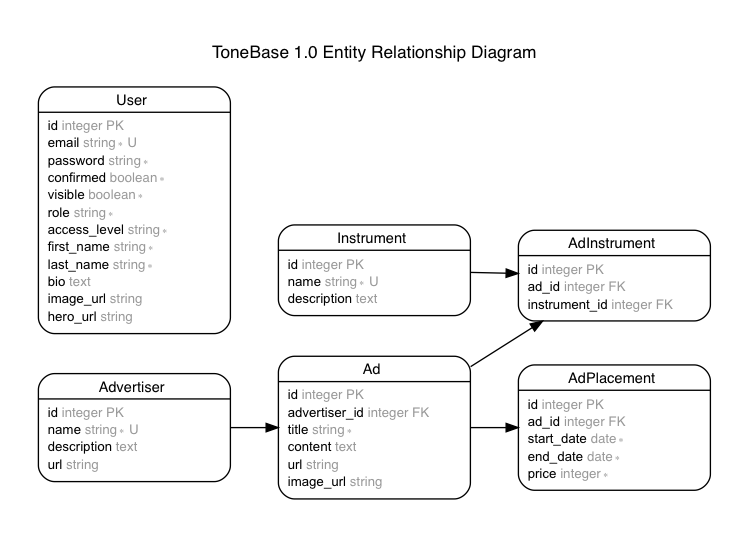
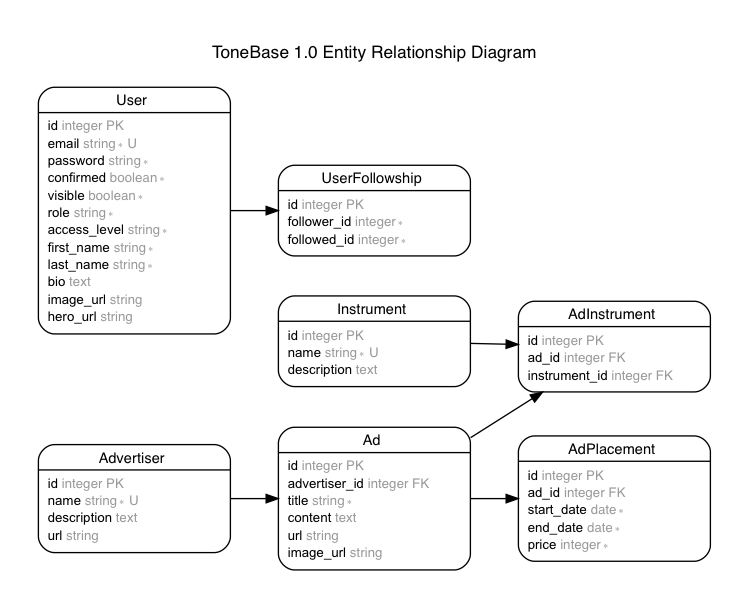
Re-configure bi-directional self-relationship

diff --git a/db/schema.rb b/db/schema.rb
@@ -10,7 +10,7 @@
 #
 # It's strongly recommended that you check this file into your version control system.
 
-ActiveRecord::Schema.define(version: 20170603143925) do
+ActiveRecord::Schema.define(version: 20170603192120) do
 
   # These are extensions that must be enabled in order to support this database
   enable_extension "plpgsql"
@@ -62,12 +62,13 @@ ActiveRecord::Schema.define(version: 20170603143925) do
     t.index ["name"], name: "index_instruments_on_name", unique: true, using: :btree
   end
 
-  create_table "user_follows", force: :cascade do |t|
+  create_table "user_followships", force: :cascade do |t|
     t.integer  "user_id"
-    t.integer  "follower_id"
-    t.datetime "created_at",  null: false
-    t.datetime "updated_at",  null: false
-    t.index ["user_id"], name: "index_user_follows_on_user_id", using: :btree
+    t.integer  "followed_user_id"
+    t.datetime "created_at",       null: false
+    t.datetime "updated_at",       null: false
+    t.index ["followed_user_id"], name: "index_user_followships_on_followed_user_id", using: :btree
+    t.index ["user_id"], name: "index_user_followships_on_user_id", using: :btree
   end
 
   create_table "users", force: :cascade do |t|
@@ -95,6 +96,6 @@ ActiveRecord::Schema.define(version: 20170603143925) do
   add_foreign_key "ad_instruments", "instruments"
   add_foreign_key "ad_placements", "ads"
   add_foreign_key "ads", "advertisers"
-  add_foreign_key "user_follows", "users"
-  add_foreign_key "user_follows", "users", column: "follower_id"
+  add_foreign_key "user_followships", "users"
+  add_foreign_key "user_followships", "users", column: "followed_user_id"
 end

diff --git a/spec/models/user_spec.rb b/spec/models/user_spec.rb
@@ -1,6 +1,30 @@
 require 'rails_helper'
 
 RSpec.describe User, type: :model do
+  describe "associations" do
+    it { should have_many(:user_followships) }
+    it { should have_many(:follows).through(:user_followships) }
+
+    it { should have_many(:inverse_user_followships) }
+    it { should have_many(:followers).through(:inverse_user_followships) }
+
+    describe "self-referential user followships" do
+      let(:user){ create(:user) }
+      let(:artist){ create(:artist) }
+      let!(:user_followhip) { create(:user_followship, user: user, followed_user: artist) }
+
+      it "should associate user with follows" do
+        expect(user.follows.first).to eql(artist)
+        expect(artist.follows.any?).to eql(false)
+      end
+
+      it "should associate followed user with followers" do
+        expect(artist.followers.first).to eql(user)
+        expect(user.followers.any?).to eql(false)
+      end
+    end
+  end
+
   describe "validations" do
     it { should validate_presence_of(:email) }
     it { should validate_presence_of(:password) }
@@ -16,7 +40,7 @@ RSpec.describe User, type: :model do
     it { should validate_inclusion_of(:role).in_array(["User", "Artist", "Admin"]) }
     it { should validate_inclusion_of(:access_level).in_array(["Full", "Limited"]) }
 
-    context "when requiring another model instance" do
+    describe "for uniqueness" do
       subject { build(:user) }
       it { should validate_uniqueness_of(:email) }
     end

diff --git a/spec/controllers/api/v1/user_followships_controller_spec.rb b/spec/controllers/api/v1/user_followships_controller_spec.rb
@@ -1,0 +1,26 @@
+require 'rails_helper'
+require_relative '../../../support/api/v1/create'
+require_relative '../../../support/api/v1/destroy'
+
+RSpec.describe Api::V1::UserFollowshipsController, type: :controller do
+  describe "POST #create" do
+    it_behaves_like "a create endpoint", UserFollowship  do
+      let(:user){ create(:user) }
+      let(:followed_user){ create(:followed_user) }
+      let(:resource_params){
+        {
+          user_id: user.id,
+          followed_user_id: followed_user.id,
+        }
+      }
+    end
+
+    it_behaves_like "a create endpoint which validates presence", UserFollowship, [:user, :followed_user] do
+      let(:resource_params){ {user_id: "", followed_user_id: ""} }
+    end
+  end
+
+  describe "DELETE #destroy" do
+    it_behaves_like "a destroy endpoint", UserFollowship
+  end
+end

diff --git a/spec/factories/users.rb b/spec/factories/users.rb
@@ -1,5 +1,6 @@
 FactoryGirl.define do
-  factory :user, aliases: [:follower] do
+  #factory :user, aliases: [:follower] do
+  factory :user do
     sequence(:email){|n| "avg.joe.#{n}@gmail.com)" }
     password "abc123"
     confirmed false
@@ -40,7 +41,7 @@ FactoryGirl.define do
       access_level "Full"
     end
 
-    factory :artist do
+    factory :artist, aliases: [:followed_user] do
       sequence(:email){|n| "music.pro.#{n}@gmail.com)" } # optional to put this attribute here, but it provides further clarity and differentiation
       first_name "Talenti" # optional to put this attribute here, but it provides further clarity and differentiation
       last_name "Pro" # optional to put this attribute here, but it provides further clarity and differentiation

diff --git a/app/models/user.rb b/app/models/user.rb
@@ -1,4 +1,10 @@
 class User < ApplicationRecord
+  has_many :user_followships
+  has_many :follows, :through => :user_followships, :source => :followed_user
+
+  has_many :inverse_user_followships, :class_name => UserFollowship, :foreign_key => "followed_user_id"
+  has_many :followers, :through => :inverse_user_followships, :source => :user
+
   ROLES = ["User", "Artist", "Admin"]
 
   validates :email, {presence: true, uniqueness: true}
@@ -21,4 +27,15 @@ class User < ApplicationRecord
   def self.admin
     where(:role => "Admin")
   end
+
+  def username
+    "#TODO"
+  end
+
+  #def follows
+  #  joins("")
+  #end
+
+  #def followers
+  #end
 end

diff --git a/spec/views/api/v1/users/index_spec.rb b/spec/views/api/v1/users/index_spec.rb
@@ -11,7 +11,12 @@ describe "api/v1/users/index.json.jbuilder" do
   it "displays users" do
     expect(parsed_view.count).to eql(2)
     parsed_view.each do |user|
-      expect(keys_of(user)).to match_array([:id, :email, :password, :confirmed, :visible, :role, :access_level, :first_name, :last_name, :bio, :image_url, :hero_url, :created_at, :updated_at])
+      expect(keys_of(user)).to match_array([
+        :id, :email, :password, :confirmed, :visible, :role, :access_level,
+        :first_name, :last_name, :bio, :image_url, :hero_url,
+        :followers,
+        :created_at, :updated_at
+      ])
     end
   end
 end

diff --git a/app/controllers/api/v1/user_followships_controller.rb b/app/controllers/api/v1/user_followships_controller.rb
@@ -1,0 +1,24 @@
+class Api::V1::UserFollowshipsController < Api::V1::ApiController
+  before_action :set_resource, only: [:destroy]
+
+  # POST /api/v1/user_followships
+  def create
+    user_followship = UserFollowship.new(resource_params)
+    save_and_render_json(user_followship)
+  end
+
+  # DELETE /api/v1/user_followships/:id
+  def destroy
+    destroy_and_render_json(@user_followship)
+  end
+
+private
+
+  def set_resource
+    @user_followship = UserFollowship.find(params[:id])
+  end
+
+  def resource_params
+    params.require(:user_followship).permit(:user_id, :followed_user_id)
+  end
+end

diff --git a/spec/views/api/v1/users/show_spec.rb b/spec/views/api/v1/users/show_spec.rb
@@ -8,6 +8,11 @@ describe "api/v1/users/show.json.jbuilder" do
   end
 
   it "displays a user" do
-    expect(keys_of(parsed_view)).to match_array([:id, :email, :password, :confirmed, :visible, :role, :access_level, :first_name, :last_name, :bio, :image_url, :hero_url, :created_at, :updated_at])
+    expect(keys_of(parsed_view)).to match_array([
+      :id, :email, :password, :confirmed, :visible, :role, :access_level,
+      :first_name, :last_name, :bio, :image_url, :hero_url,
+      :followers,
+      :created_at, :updated_at
+    ])
   end
 end

diff --git a/db/migrate/20170603192120_create_user_followships.rb b/db/migrate/20170603192120_create_user_followships.rb
@@ -1,0 +1,13 @@
+class CreateUserFollowships < ActiveRecord::Migration[5.0]
+  def change
+    create_table :user_followships do |t|
+      t.references :user, foreign_key: true
+      t.references :followed_user, index: true
+
+      t.timestamps
+    end
+
+    add_foreign_key :user_followships, :users, column: :followed_user_id
+    #todo: figure out the proper unique index. requires different approach than ... add_index :user_followships, [:user_id, :followed_user_id], unique: true
+  end
+end

diff --git a/spec/models/user_followship_spec.rb b/spec/models/user_followship_spec.rb
@@ -1,0 +1,13 @@
+require 'rails_helper'
+
+RSpec.describe UserFollowship, type: :model do
+  describe "associations" do
+    it { should belong_to(:user) }
+    it { should belong_to(:followed_user) }
+  end
+
+  describe "validations" do
+    it { should validate_presence_of(:user) }
+    it { should validate_presence_of(:followed_user) }
+  end
+end

diff --git a/config/routes.rb b/config/routes.rb
@@ -12,7 +12,7 @@ Rails.application.routes.draw do
       resources :ad_instruments, only: [:create, :destroy]
 
       resources :users, only: [:index, :show, :create, :update, :destroy]
-      resources :user_follows, only: [:create, :destroy]
+      resources :user_followships, only: [:create, :destroy]
     end
   end
 end

diff --git a/app/models/user_followship.rb b/app/models/user_followship.rb
@@ -1,0 +1,9 @@
+class UserFollowship < ApplicationRecord
+  belongs_to :user
+  belongs_to :followed_user, class_name: User
+
+  validates_associated :user
+  validates_associated :followed_user
+  validates :user, {presence:true}
+  validates :followed_user, {presence:true}
+end
